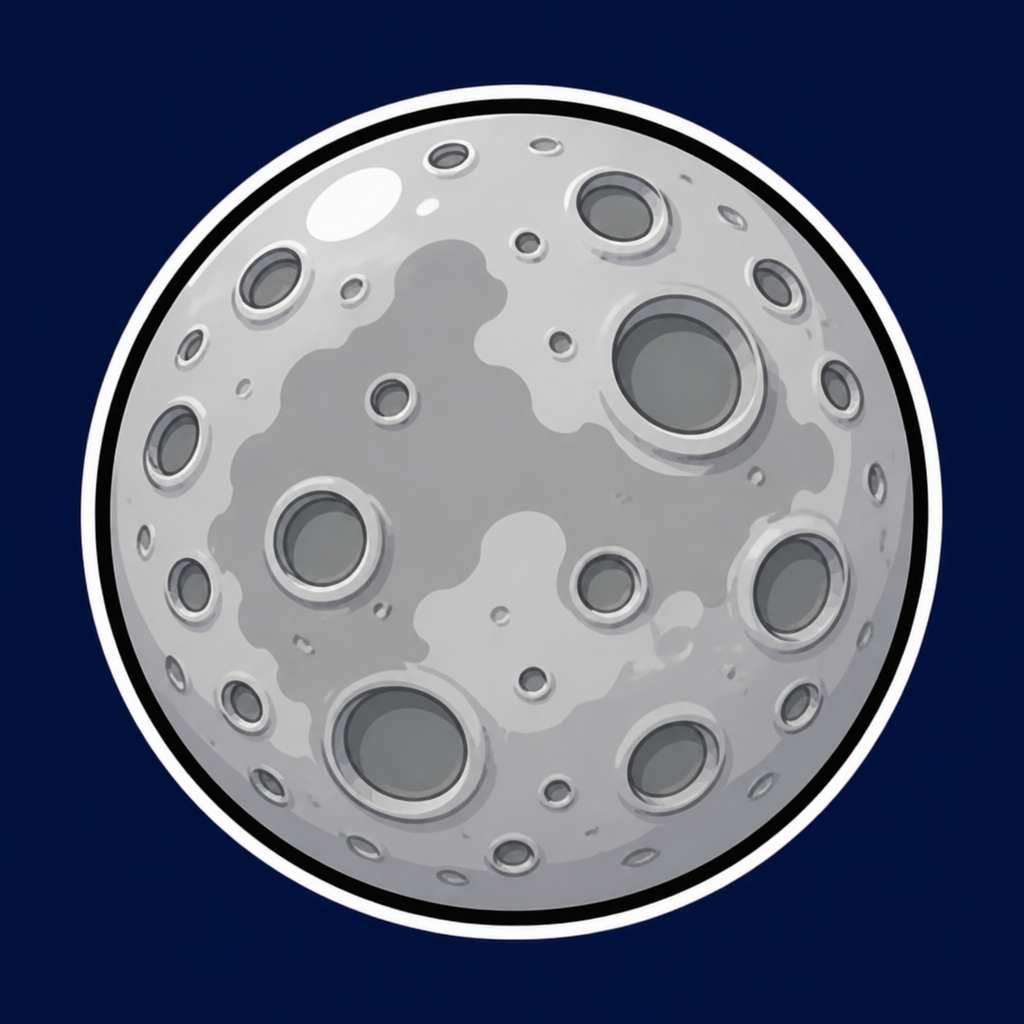
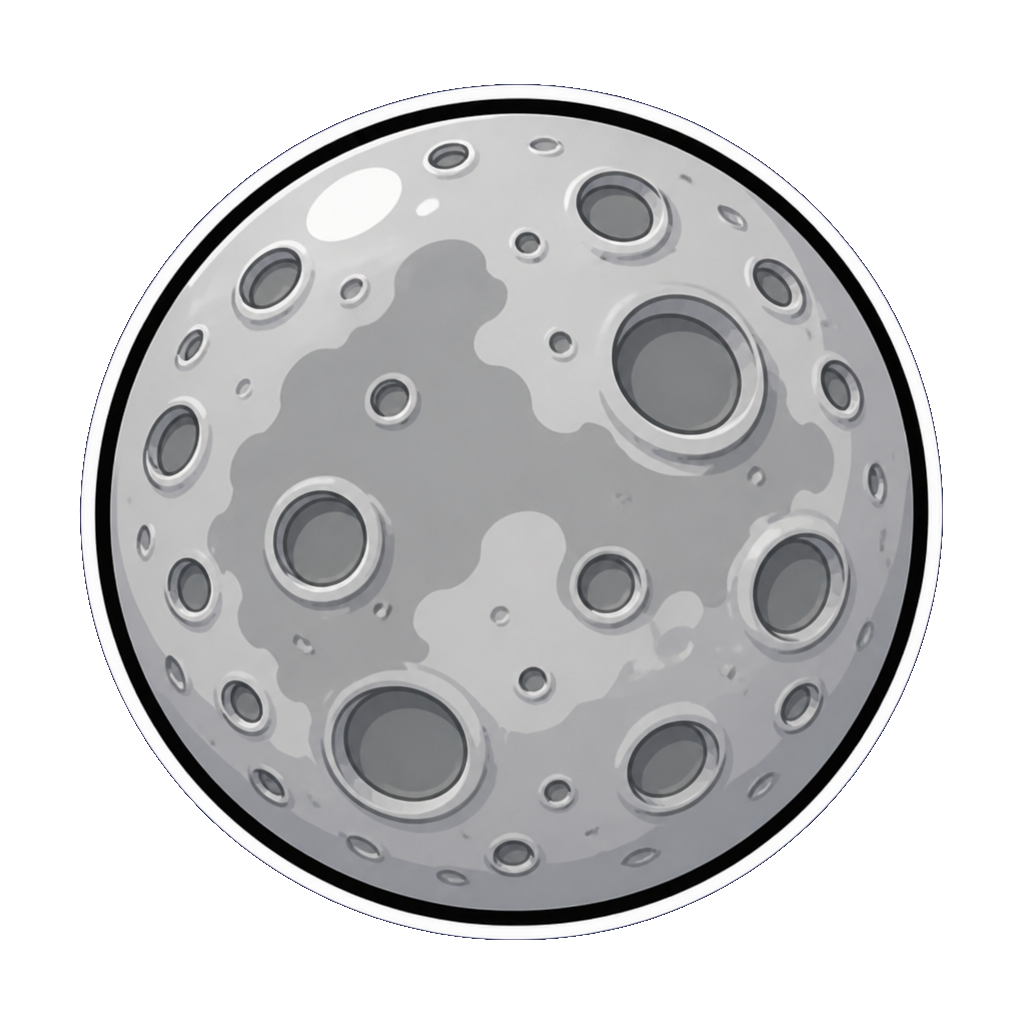
Give Planets, Moons, and Celestial the same blue haze as Spacecraft.
Cut the navy squares out of those badges so a cyan glow can sit on the starfield like the spacecraft logo.

diff --git a/src/App.css b/src/App.css
@@ -389,9 +389,12 @@ h1 {
   display: block;
   width: min(132px, 22vw);
   height: min(132px, 22vw);
-  border-radius: 50%;
-  object-fit: cover;
-  filter: drop-shadow(0 14px 28px #00000099);
+  object-fit: contain;
+  filter:
+    drop-shadow(0 14px 28px #00000099)
+    drop-shadow(0 0 6px #5ad0ffee)
+    drop-shadow(0 0 16px #2f8cffcc)
+    drop-shadow(0 0 34px #1858ff88);
   animation: mode-body-float 6s ease-in-out infinite;
 }
 
@@ -412,13 +415,23 @@ h1 {
 .mode-body-spacecraft .mode-body-art {
   animation-duration: 5.8s;
   animation-delay: -0.8s;
-  object-fit: contain;
+  /* The PNG already has the cyan ring and blue haze. */
+  filter: drop-shadow(0 14px 28px #00000099);
 }
 
 .mode-body:hover .mode-body-art,
 .mode-body:focus-visible .mode-body-art {
   animation: none;
   transform: translateY(-8px) scale(1.08);
+  filter:
+    drop-shadow(0 18px 32px #000000aa)
+    drop-shadow(0 0 8px #7ae0ffee)
+    drop-shadow(0 0 22px #4aa0ffcc)
+    drop-shadow(0 0 40px #2a68ff99);
+}
+
+.mode-body-spacecraft:hover .mode-body-art,
+.mode-body-spacecraft:focus-visible .mode-body-art {
   filter:
     drop-shadow(0 18px 32px #000000aa)
     drop-shadow(0 0 22px #7aa2ff99);

diff --git a/src/App.test.tsx b/src/App.test.tsx
@@ -42,7 +42,7 @@ describe("Cosmica prototype", { timeout: 20_000 }, () => {
     expect(screen.getByRole("button", { name: "Planets" })).toBeInTheDocument();
     expect(screen.getByRole("button", { name: "Planets" }).querySelector("img")).toHaveAttribute(
       "src",
-      publicUrl("bodies/earth.png"),
+      publicUrl("bodies/earth-sticker.png"),
     );
     expect(screen.getByRole("button", { name: "Moons" }).querySelector("img")).toHaveAttribute(
       "src",

diff --git a/src/App.tsx b/src/App.tsx
@@ -53,7 +53,7 @@ const MODE_ICONS: Record<GameMode, string> = {
 };
 
 const MODE_STICKERS: Record<GameMode, string> = {
-  planets: publicUrl("bodies/earth.png"),
+  planets: publicUrl("bodies/earth-sticker.png"),
   moons: publicUrl("bodies/moon-sticker.png"),
   celestial: publicUrl("bodies/comet-sticker.png"),
   spacecraft: publicUrl("bodies/spacecraft-sticker.png"),

diff --git a/scripts/knockout-mode-stickers.py b/scripts/knockout-mode-stickers.py
@@ -1,0 +1,87 @@
+"""Knock out the navy square behind mission-picker stickers so the blue haze shows."""
+
+from __future__ import annotations
+
+from collections import deque
+from pathlib import Path
+
+import numpy as np
+from PIL import Image
+
+ROOT = Path(__file__).resolve().parents[1]
+BODIES = ROOT / "public" / "bodies"
+
+JOBS = (
+    ("earth.png", "earth-sticker.png"),
+    ("moon-sticker.png", "moon-sticker.png"),
+    ("comet-sticker.png", "comet-sticker.png"),
+)
+
+BG_DIST = 24.0
+SOFT_DIST = 48.0
+
+
+def color_dist(pixels: np.ndarray, bg: np.ndarray) -> np.ndarray:
+    delta = pixels.astype(np.float32) - bg
+    return np.sqrt(np.sum(delta * delta, axis=-1))
+
+
+def flood_background(dist: np.ndarray, limit: float) -> np.ndarray:
+    height, width = dist.shape
+    seen = np.zeros((height, width), dtype=np.uint8)
+    queue: deque[tuple[int, int]] = deque()
+
+    def seed(y: int, x: int) -> None:
+        if dist[y, x] < limit:
+            queue.append((y, x))
+
+    for x in range(width):
+        seed(0, x)
+        seed(height - 1, x)
+    for y in range(height):
+        seed(y, 0)
+        seed(y, width - 1)
+
+    while queue:
+        y, x = queue.popleft()
+        if seen[y, x]:
+            continue
+        if dist[y, x] >= limit:
+            continue
+        seen[y, x] = 1
+        for dy, dx in ((0, 1), (0, -1), (1, 0), (-1, 0)):
+            ny, nx = y + dy, x + dx
+            if 0 <= ny < height and 0 <= nx < width and not seen[ny, nx]:
+                queue.append((ny, nx))
+    return seen.astype(bool)
+
+
+def knockout(im: Image.Image) -> Image.Image:
+    arr = np.array(im.convert("RGBA"))
+    rgb = arr[:, :, :3]
+    height, width = rgb.shape[:2]
+    corners = np.array(
+        [rgb[2, 2], rgb[2, width - 3], rgb[height - 3, 2], rgb[height - 3, width - 3]],
+        dtype=np.float32,
+    )
+    bg = np.median(corners, axis=0)
+    dist = color_dist(rgb, bg)
+    background = flood_background(dist, SOFT_DIST)
+    alpha = arr[:, :, 3].astype(np.float32)
+    fade = np.clip((dist - BG_DIST) / (SOFT_DIST - BG_DIST), 0.0, 1.0)
+    alpha[background] = np.minimum(alpha[background], fade[background] * 255.0)
+    arr[:, :, 3] = alpha.astype(np.uint8)
+    return Image.fromarray(arr)
+
+
+def main() -> None:
+    for src_name, dest_name in JOBS:
+        src = BODIES / src_name
+        dest = BODIES / dest_name
+        knocked = knockout(Image.open(src))
+        knocked.save(dest)
+        print(f"wrote {dest.relative_to(ROOT)}")
+
+
+if __name__ == "__main__":
+    main()

diff --git a/scripts/assert-spacecraft-cutouts.py b/scripts/assert-spacecraft-cutouts.py
@@ -12,6 +12,8 @@ BODIES = ROOT / "public" / "bodies"
 
 SKIP: set[str] = set()
 
+MODE_STICKERS = ("earth-sticker", "moon-sticker", "comet-sticker", "spacecraft-sticker")
+
 
 def main() -> int:
     ids = [
@@ -66,6 +68,19 @@ def main() -> int:
         print("\n".join(failed), file=sys.stderr)
         return 1
     print(f"checked {len(ids) - len(SKIP)} spacecraft cutouts")
+    for stem in MODE_STICKERS:
+        image = Image.open(BODIES / f"{stem}.png").convert("RGBA")
+        width, height = image.size
+        corners = [
+            image.getpixel((2, 2))[3],
+            image.getpixel((width - 3, 2))[3],
+            image.getpixel((2, height - 3))[3],
+            image.getpixel((width - 3, height - 3))[3],
+        ]
+        if any(alpha > 16 for alpha in corners):
+            print(f"{stem}: opaque corners {corners}", file=sys.stderr)
+            return 1
+    print(f"checked {len(MODE_STICKERS)} mode stickers")
     return 0
 
 

diff --git a/README.md b/README.md
@@ -26,7 +26,7 @@ npm run dev
 
 Open **http://127.0.0.1:5173/cosmica/** (production builds use the `/cosmica/` base path). There are no env files or secrets.
 
-The **home page** shows the Cosmica logo, the tagline **Explore the Solar System. Master the cosmos.**, and a **Play** button. Play opens mission select over the same solar-system sky: **Quick Play**, or tap **Earth** for Planets, the **Moon** for Moons, a **comet** for Celestial bodies, or a **probe** for Spacecraft. **Back** (or the logo) returns to the title screen. Moons setup offers all moons, well-known moons, or a planet mix. Celestial bodies setup offers all bodies, common bodies, or a type mix. Spacecraft setup offers all spacecraft, common spacecraft, or a destination mix. Best scores (%) are for the full catalog of that mode (all moons, all celestial bodies, all spacecraft), not a shorter easy list. Unique finds and XP stay in this browser. On a phone, drag to pan, pinch to zoom, and tap the named body. On a computer, click the body, scroll or pinch to zoom, drag to pan, or hold **WASD** / **arrow keys** to look around. **Tab** moves among the HUD and the body the prompt names, not every lit object. Gray bodies are still there so you can learn the whole Solar System; they are just not in play. The round ends when every lit body has been found. On the results screen, **Escape** returns to the menu.
+The **home page** shows the Cosmica logo, the tagline **Explore the Solar System. Master the cosmos.**, and a **Play** button. Play opens mission select over the same solar-system sky: **Quick Play**, or tap **Earth** for Planets, the **Moon** for Moons, a **comet** for Celestial bodies, or a **probe** for Spacecraft — the four badges share the same blue haze outline. **Back** (or the logo) returns to the title screen. Moons setup offers all moons, well-known moons, or a planet mix. Celestial bodies setup offers all bodies, common bodies, or a type mix. Spacecraft setup offers all spacecraft, common spacecraft, or a destination mix. Best scores (%) are for the full catalog of that mode (all moons, all celestial bodies, all spacecraft), not a shorter easy list. Unique finds and XP stay in this browser. On a phone, drag to pan, pinch to zoom, and tap the named body. On a computer, click the body, scroll or pinch to zoom, drag to pan, or hold **WASD** / **arrow keys** to look around. **Tab** moves among the HUD and the body the prompt names, not every lit object. Gray bodies are still there so you can learn the whole Solar System; they are just not in play. The round ends when every lit body has been found. On the results screen, **Escape** returns to the menu.
 
 ## How it is built
 

diff --git a/public/bodies/ATTRIBUTION.md b/public/bodies/ATTRIBUTION.md
@@ -1,6 +1,6 @@
 # Body art sources
 
-Planet sticker art is original to Cosmica. The Spacecraft mode badge is original Cosmica art. Moon, celestial-body, and spacecraft photos are public-domain NASA / ESA / JPL mission images (and a few museum or agency models) fetched from Wikimedia Commons and the NASA image library.
+Planet sticker art is original to Cosmica. The Earth, Moon, comet, and Spacecraft mission-picker badges are original Cosmica art; Earth, Moon, and comet use a transparent cutout so their blue haze can sit on the starfield. Moon, celestial-body, and spacecraft photos are public-domain NASA / ESA / JPL mission images (and a few museum or agency models) fetched from Wikimedia Commons and the NASA image library.
 
 | Moon | Wikimedia file |
 | --- | --- |

diff --git a/CHANGELOG.md b/CHANGELOG.md
@@ -13,6 +13,12 @@ and this project adheres to [Semantic Versioning](https://semver.org/spec/v2.0.0
 - `npm run lint` fails when oxlint reports warnings.
 - The full Vitest suite uses a 15s timeout and fewer parallel workers so heavy map tests are less likely to flake under load.
 
+## [0.32.2] - 2026-09-06
+
+### Changed
+
+- Planets, Moons, and Celestial bodies mission badges use the same blue haze outline as Spacecraft.
+
 ## [0.32.1] - 2026-09-06
 
 ### Changed
